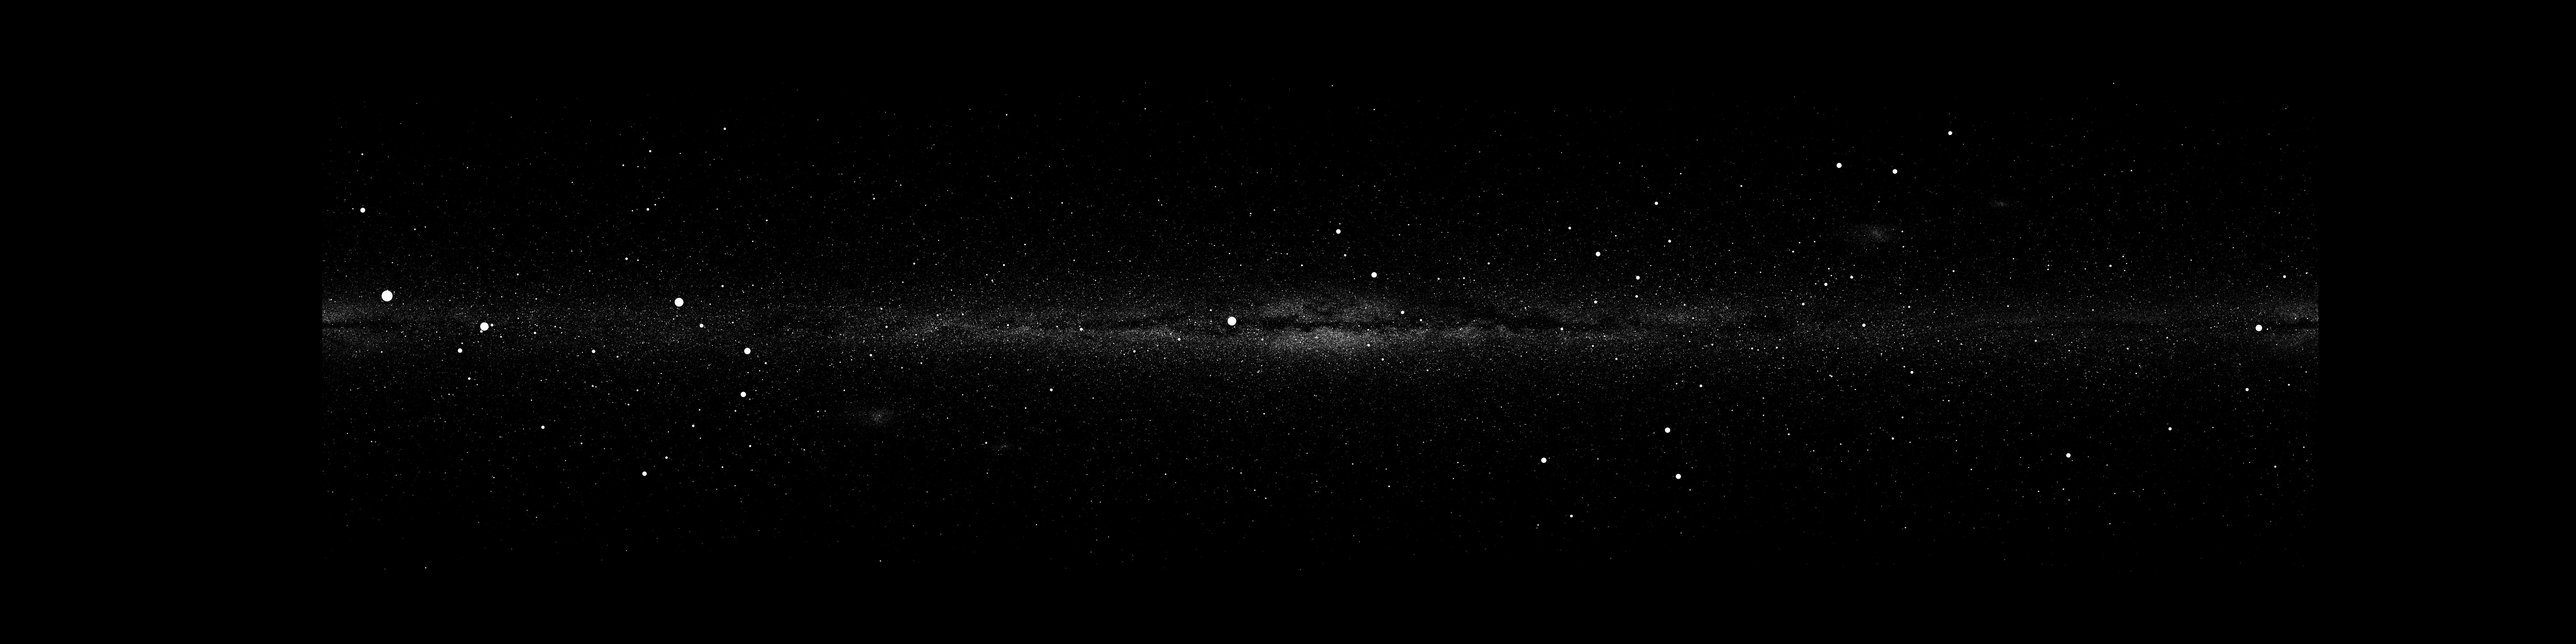
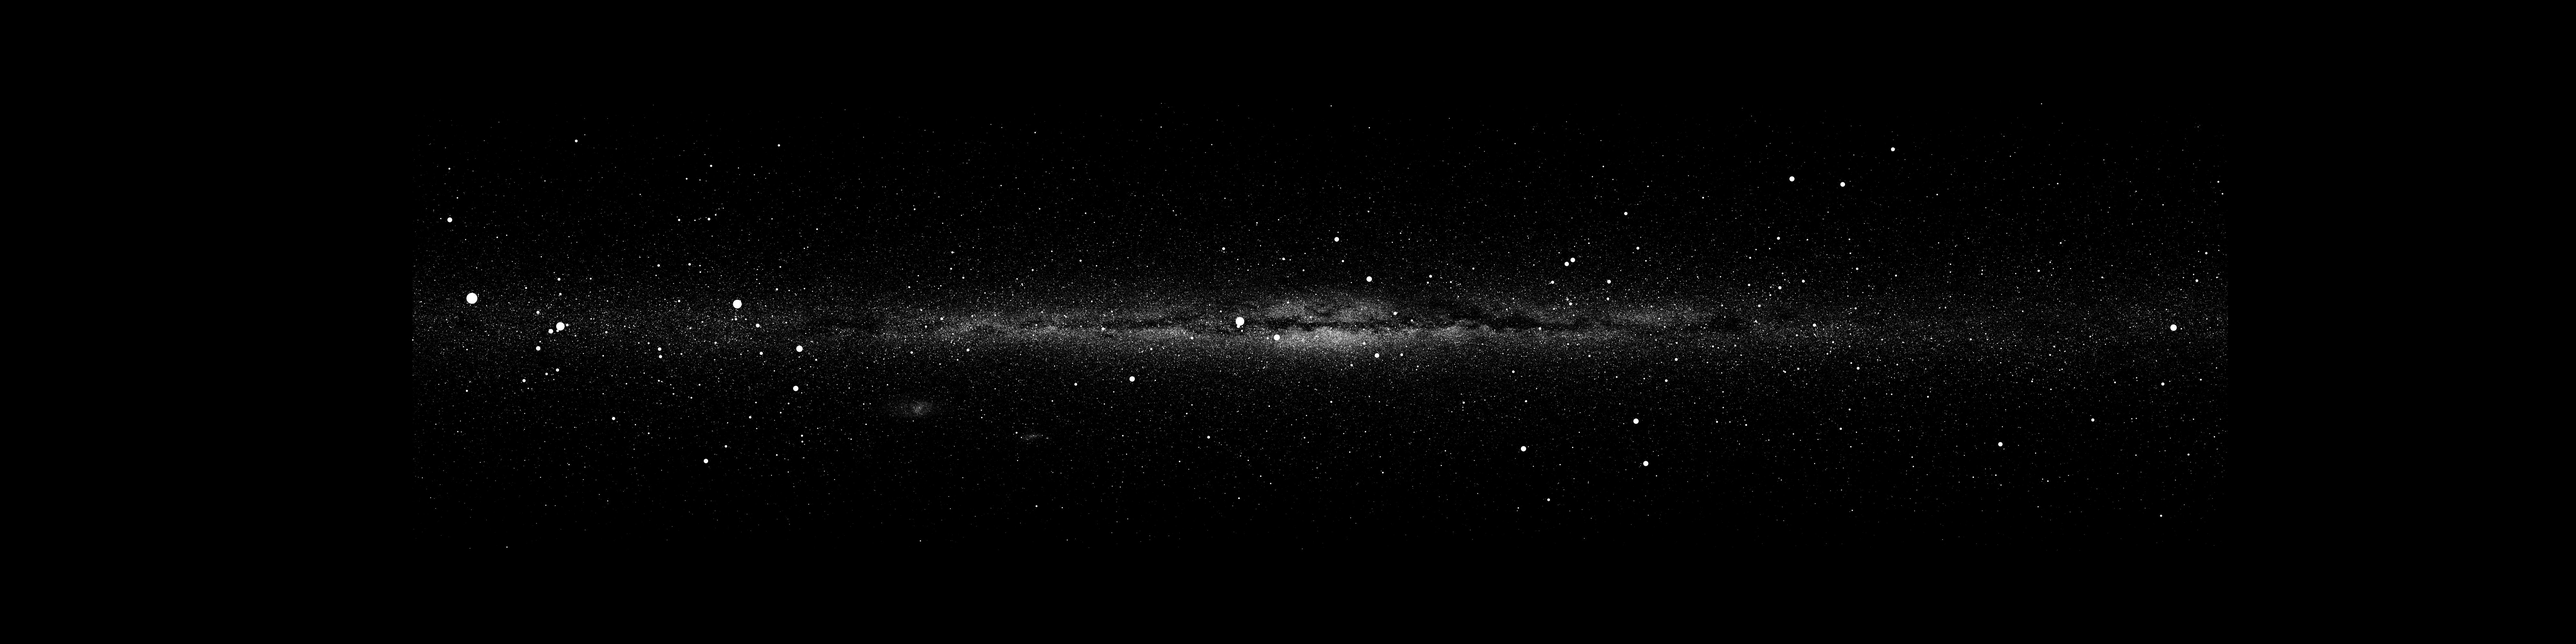
Updated and optimize function to map sky view from exoplanet

Changed region(s): [[0.125, 0.403, 0.9062, 0.62], [0.3438, 0.62, 0.375, 0.651]]

diff --git a/back-end/galatic_map.py b/back-end/galatic_map.py
@@ -5,6 +5,7 @@ from astroquery.gaia import Gaia
 from astropy import units as u
 import numpy as np
 from astropy.coordinates import Galactic, CartesianRepresentation
+from exoplanet_data import exoplanets
 
 os.environ["SSL_CERT_FILE"] = certifi.where()
 
@@ -38,8 +39,8 @@ def transform_mag(mag, distance_pc, new_distance_pc):
     """Transform the phot_g_mean_mag to new values based on distance."""
     return mag + 5 * (np.log10(new_distance_pc) - np.log10(distance_pc))
 
-def query_gaia_and_create_png(planet_name, galactic_long, galactic_lat, distance_pc):
-    # Query Gaia catalog for a specific region
+def query_gaia():
+    """Query Gaia catalog once and return results."""
     job = Gaia.launch_job_async(
         "SELECT TOP 500000 l, b, phot_g_mean_mag, parallax "
         "FROM gaiadr3.gaia_source "
@@ -47,35 +48,34 @@ def query_gaia_and_create_png(planet_name, galactic_long, galactic_lat, distance
         "AND parallax > 0 AND l BETWEEN 0 AND 360 AND b BETWEEN -90 AND 90 "
         "ORDER BY random_index"
     )
-    results = job.get_results()
+    return job.get_results()
 
-    # Extract l, b, and Magnitude
-    l = results["l"].data
-    b = results["b"].data
-    mag = results["phot_g_mean_mag"].data
-    parallax = results["parallax"].data # In case we want to use it later
+def create_png_for_exoplanet(planet_name, galactic_long, galactic_lat, distance_pc, gaia_results):
+    # Extract l, b, and Magnitude from Gaia results
+    l = gaia_results["l"].data
+    b = gaia_results["b"].data
+    mag = gaia_results["phot_g_mean_mag"].data
+    parallax = gaia_results["parallax"].data  # In case we want to use it later
 
+    # Convert parallax to distance in parsecs
+    distance_pc_gaia = 1000 / parallax
+    
     # Convert to Cartesian coordinates (using Earth as origin)
-    distance_pc_gaia = 1 / (parallax)  # Convert parallax to distance in parsecs
-    
-    
+    x_gaia, y_gaia, z_gaia = galactic_to_cartesian(l, b, distance_pc_gaia)
 
-    # Use astropy to convert galactic coordinates to Cartesian
-    xyz_gaia = galactic_to_cartesian(l, b, distance_pc_gaia)
+    # Convert the exoplanet's galactic coordinates to Cartesian
+    planet_x, planet_y, planet_z = galactic_to_cartesian(galactic_long, galactic_lat, distance_pc)
 
-    # Calculate new origin based on the exoplanet
-    planet_xyz = galactic_to_cartesian(galactic_long, galactic_lat, distance_pc)
+    # Shift the star positions to make the exoplanet the new origin
+    shifted_x = x_gaia - planet_x
+    shifted_y = y_gaia - planet_y
+    shifted_z = z_gaia - planet_z
     
-    # Change coordinates to the inputted exoplanet as the new origin
-    shifted_xyz = np.array(xyz_gaia) - np.array([planet_xyz]).reshape(3, 1)
-
     # Convert back to galactic coordinates
-    l_new, b_new, d_new = cartesian_to_galactic(shifted_xyz[0], shifted_xyz[1], shifted_xyz[2])
+    l_new, b_new, d_new = cartesian_to_galactic(shifted_x, shifted_y, shifted_z)
 
-    # Transform the magnitude values
-    new_mag = mag
     # Normalize the new magnitude to use as sizes (smaller magnitude -> larger size)
-    sizes_random = 10 ** (0.4 * (12 - new_mag))  # Adjust constant to scale sizes appropriately
+    sizes_random = 10 ** (0.4 * (12 - mag))  # Adjust constant to scale sizes appropriately
 
     # Plot the data
     plt.figure(figsize=(80, 20))
@@ -83,15 +83,10 @@ def query_gaia_and_create_png(planet_name, galactic_long, galactic_lat, distance
     l_new_shifted = np.where(l_new > 180, l_new - 360, l_new)
     
     plt.scatter(l_new_shifted, b_new, s=sizes_random, color="white")
-    plt.gca().invert_xaxis()  # Invert x-axis to match sky coordinates
 
     # Add axis labels
     plt.xlabel("Galactic Longitude (degrees)", fontsize=18)
     plt.ylabel("Galactic Latitude (degrees)", fontsize=18)
-
-    # Set axis limits
-    # plt.xlim(-180, 180)  # x-axis now ranges from -180° to 180°
-    # plt.ylim(-90, 90)  # b ranges from -90° to 90°
 
     # Set title and background color
     plt.title(f"Sky Image from Gaia Data (Galactic Coordinates) - {planet_name}", fontsize=24)
@@ -100,12 +95,15 @@ def query_gaia_and_create_png(planet_name, galactic_long, galactic_lat, distance
     # Save the plot to a file
     plt.savefig(f'{planet_name}.jpg', facecolor="black")
     plt.close()  # Close the plot to free up memory
-    
+
 if __name__ == "__main__":
-    query_gaia_and_create_png("Planet A", 0, 0, 0)
+    # Query the Gaia catalog once
+    gaia_results = query_gaia()
 
-
-
+    create_png_for_exoplanet("Earth", 0, 0, 0, gaia_results)
+    create_png_for_exoplanet("Planet Right", 90, 0, 1000, gaia_results)
+    create_png_for_exoplanet("Planet Back", 180, 0, 1000, gaia_results)
+    create_png_for_exoplanet("Planet Back", 270, 0, 1000, gaia_results)
     # for exoplanet in exoplanets:
     #     name = exoplanet["name"]
     #     galactic_long = exoplanet["galactic_longitude"]
@@ -113,4 +111,4 @@ if __name__ == "__main__":
     #     distance_pc = exoplanet["distance_pc"]
 
     #     # Call the function for each exoplanet
-    #     query_gaia_and_create_png(name, galactic_long, galactic_lat, distance_pc)
+    #     create_png_for_exoplanet(name, galactic_long, galactic_lat, distance_pc, gaia_results)

diff --git a/back-end/exoplanet_data.py b/back-end/exoplanet_data.py
@@ -1,5 +1,11 @@
 exoplanets = [
   {
+      "name": "Earth",
+      "galactic_longitude": 0,
+      "galactic_latitude": 0,
+      "distance_pc": 0
+  },
+  {
       "name": "Kepler-186f",
       "galactic_longitude": 36.23,
       "galactic_latitude": 12.75,
